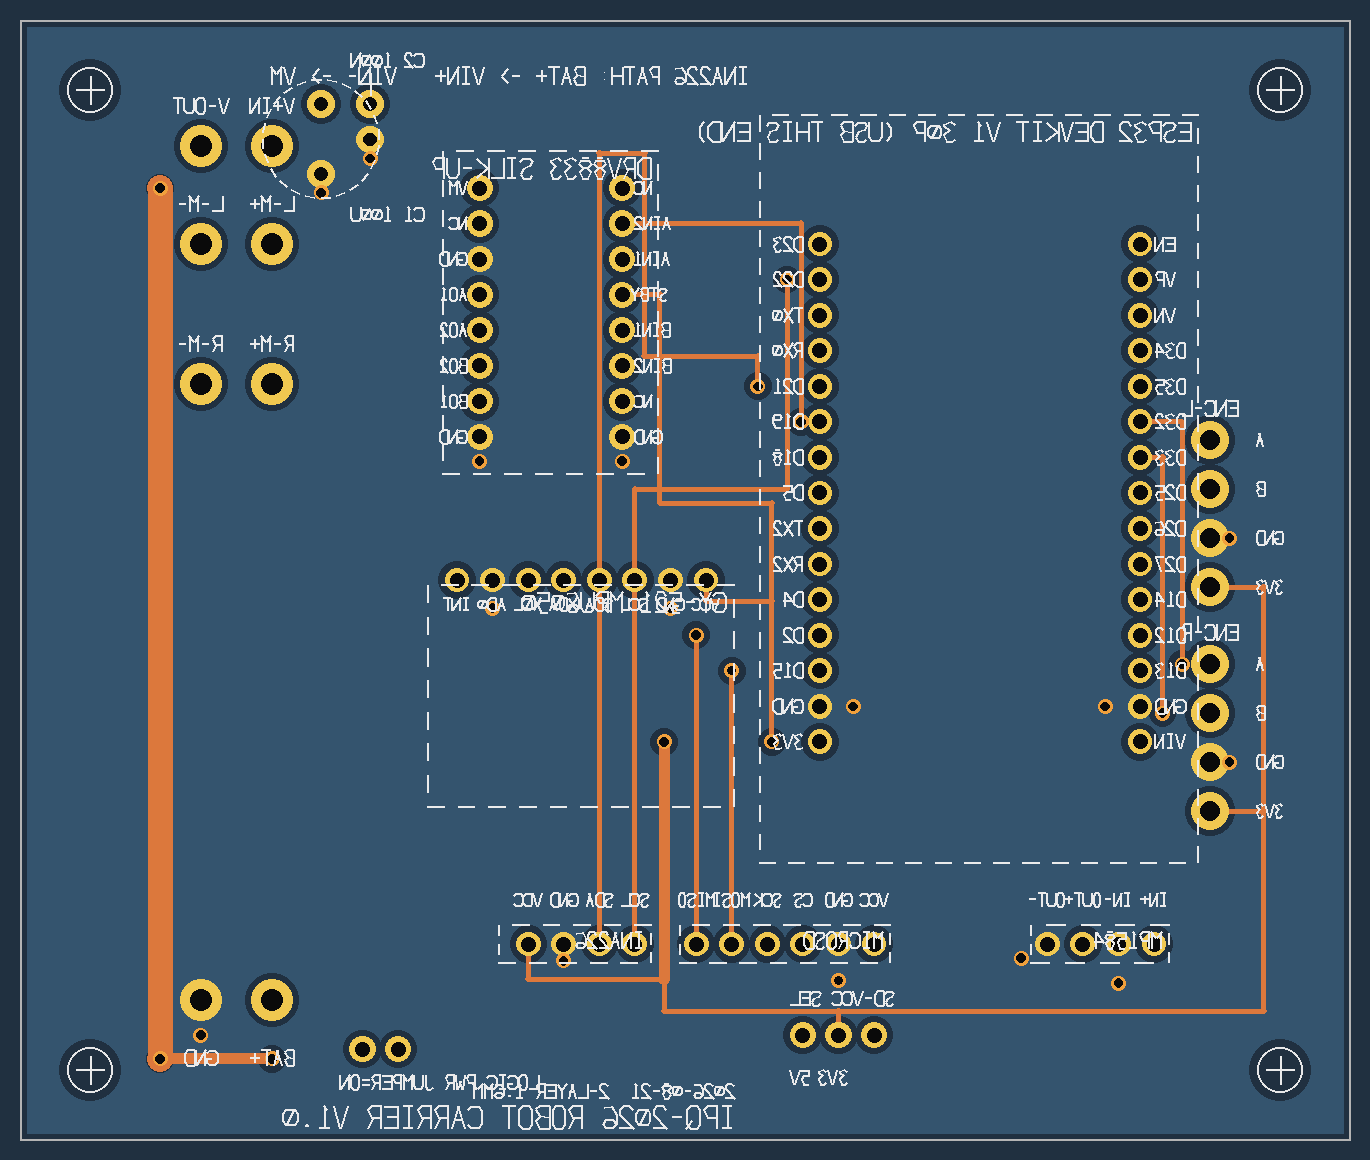
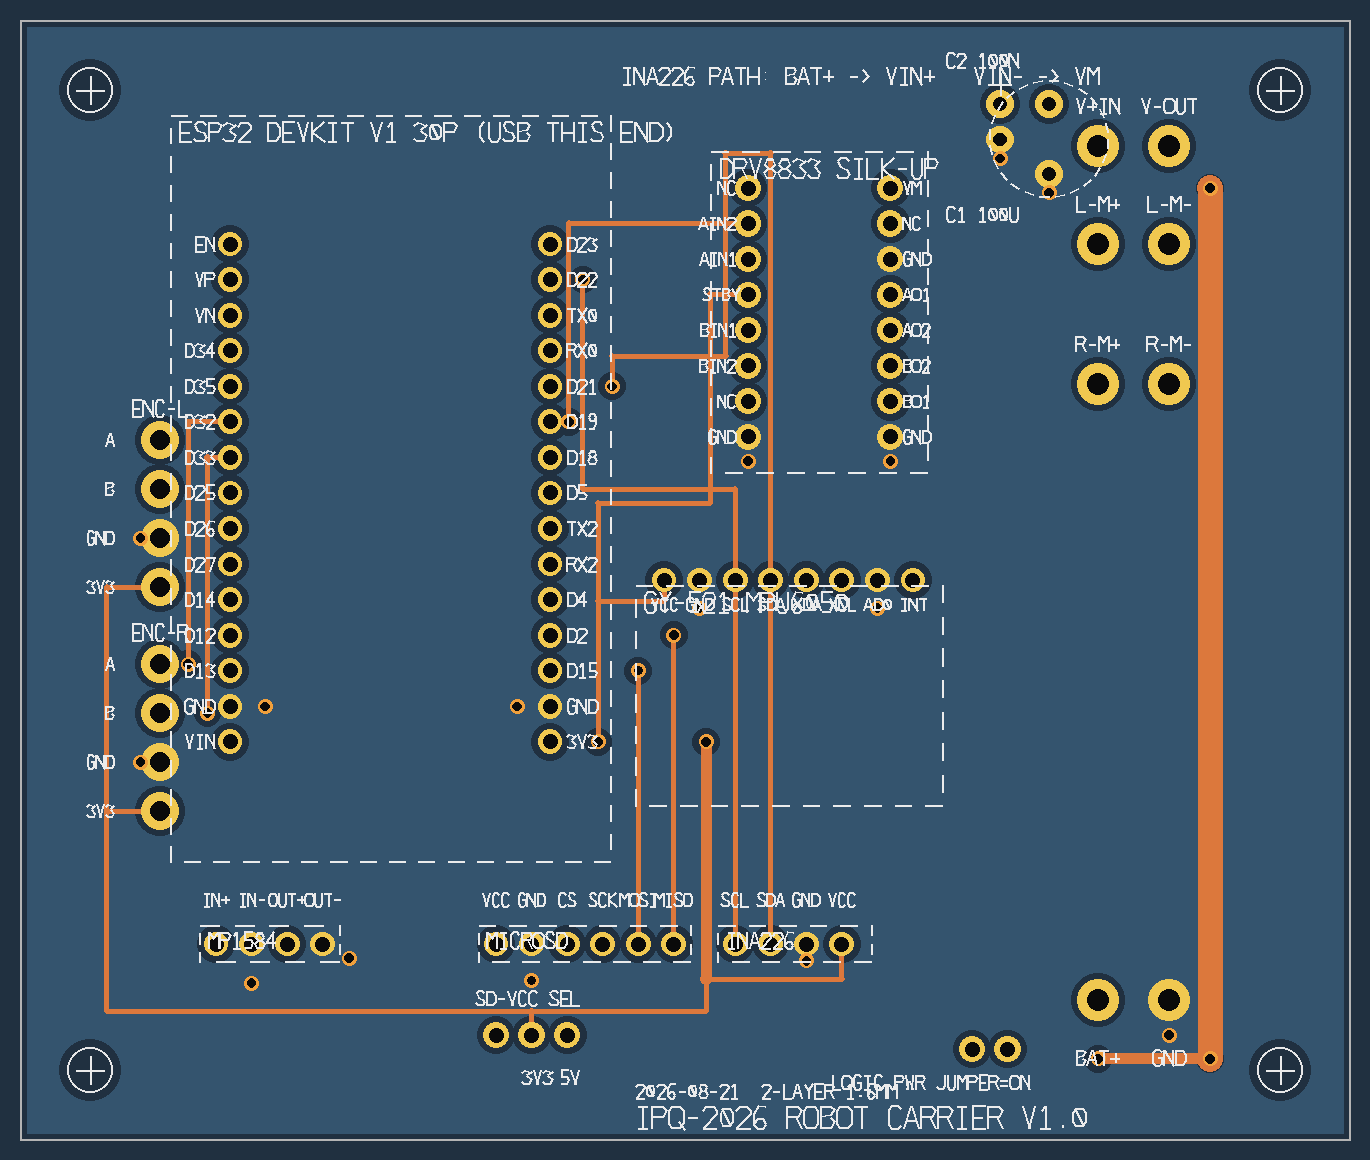
修复底层预览图镜像：改为与顶层同视角（与嘉立创在线预览一致）

Changed region(s): [[0.0613, 0.031, 0.9504, 0.9931]]

diff --git a/工程文件/pcb/gen_board.py b/工程文件/pcb/gen_board.py
@@ -598,7 +598,7 @@ if __name__ == '__main__':
     errs, warns = run_drc()
     out, gdir, zpath = emit()
     render(os.path.join(out,'preview_top.png'), 'T')
-    render(os.path.join(out,'preview_bottom.png'), 'B', mirror=True)
+    render(os.path.join(out,'preview_bottom.png'), 'B')
     with open(os.path.join(out,'report.txt'),'w') as f:
         f.write('IPQ CARRIER DRC-lite report\n'+'='*50+'\n')
         f.write('焊盘 %d，过孔 %d，走线段 %d\n\n' % (len(pads), len(vias), sum(len(t['pts'])-1 for t in tracks)))
